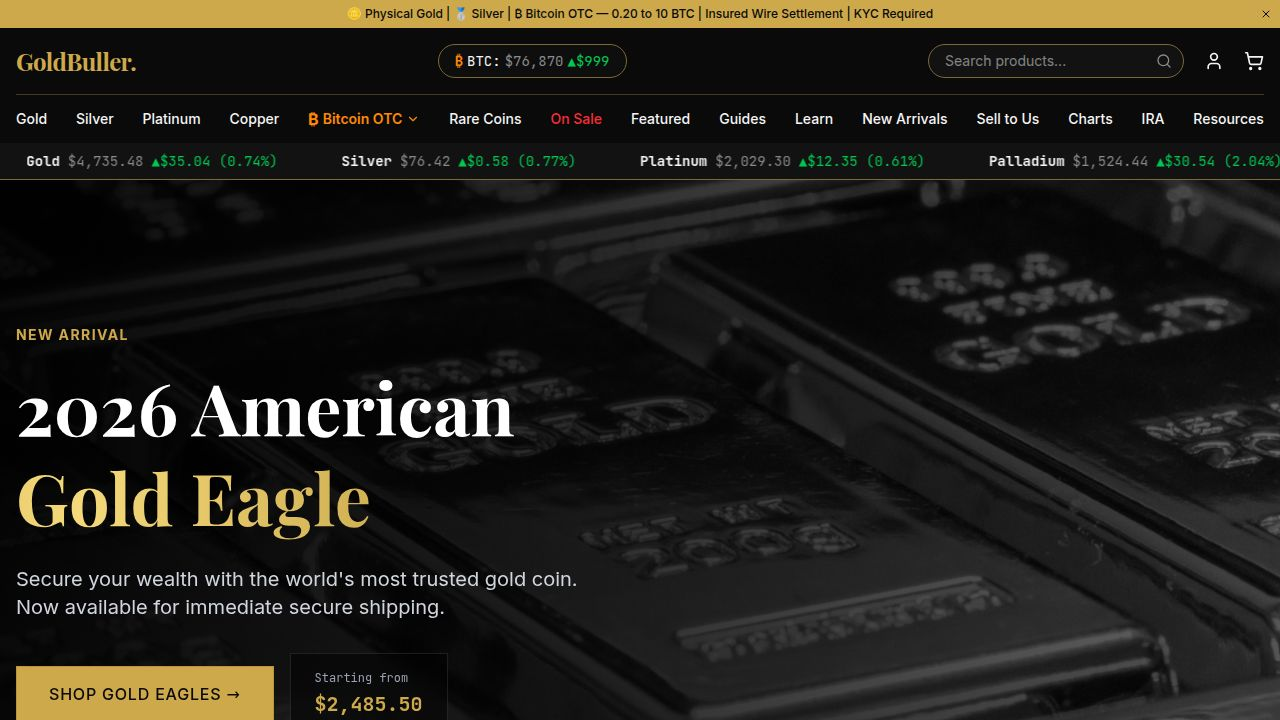
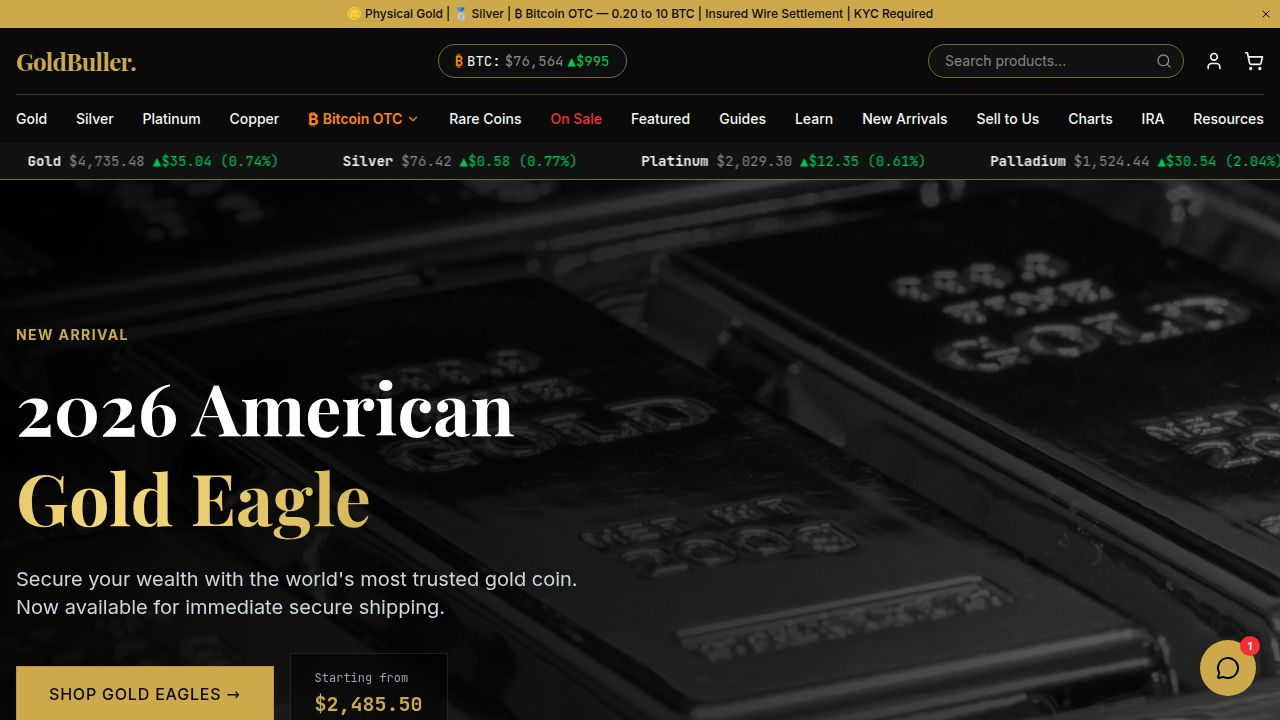
Enable two-way chat communication between website visitors and support staff
Implement a real-time chat system with webhook integration for Telegram, enabling support staff to reply to visitors directly from Telegram, with messages appearing instantly in the website's chat widget.

Replit-Commit-Author: Agent
Replit-Commit-Session-Id: c44f66ad-3d1c-43c3-a762-0c1ed141a7b3
Replit-Commit-Checkpoint-Type: full_checkpoint
Replit-Commit-Event-Id: 3b26f23b-ec00-44c7-afaf-f5d822beadcd
Replit-Commit-Screenshot-Url: https://storage.googleapis.com/screenshot-production-us-central1/ed52fd73-f097-4825-986e-e8a3069f0a9b/c44f66ad-3d1c-43c3-a762-0c1ed141a7b3/kB2XRSG
Replit-Helium-Checkpoint-Created: true

diff --git a/artifacts/puregold/src/components/ChatWidget.tsx b/artifacts/puregold/src/components/ChatWidget.tsx
@@ -1,74 +1,63 @@
-import { useState, useEffect, useRef } from "react";
+import { useState, useEffect, useRef, useCallback } from "react";
 import { useLocation } from "wouter";
 import { useAuth } from "@/contexts/AuthContext";
-import { MessageCircle, X, Send, CheckCircle, ChevronDown } from "lucide-react";
+import { MessageCircle, X, Send, ChevronDown } from "lucide-react";
 
 interface Message {
   id: string;
-  from: "user" | "bot";
+  from: "user" | "support";
   text: string;
 }
 
-const BOT_INTROS: Message[] = [
-  {
-    id: "intro",
-    from: "bot",
-    text: "👋 Hi! Welcome to GoldBuller. How can we help you today? Ask about pricing, shipping, KYC, Bitcoin OTC, or anything else.",
-  },
-];
-
-const AUTO_REPLIES: { pattern: RegExp; reply: string }[] = [
-  {
-    pattern: /price|spot|gold|silver|platinum|oz/i,
-    reply: "Our prices update in real-time from live spot markets. Check the ticker at the top of any page, or visit our Charts section for historical data. A team member will follow up shortly!",
-  },
-  {
-    pattern: /ship|deliver|how long|when|arrival/i,
-    reply: "We offer insured shipping on all orders. Standard delivery is 3–5 business days, expedited is 1–2 days. A specialist will confirm your order details soon.",
-  },
-  {
-    pattern: /kyc|verify|verification|identity|id/i,
-    reply: "KYC verification takes ~5 minutes online and is approved within 1–2 business days. Head to Account → KYC Status to get started. We'll be in touch shortly!",
-  },
-  {
-    pattern: /bitcoin|btc|otc|crypto/i,
-    reply: "Our Bitcoin OTC desk handles 0.20–10 BTC purchases via insured bank wire. All buyers must complete KYC first. A specialist will reach out to walk you through the process.",
-  },
-  {
-    pattern: /wire|bank|payment|pay/i,
-    reply: "We accept bank wire transfers. Once your order is placed, our team sends personalized wire instructions with a 4-hour settlement window. We'll follow up with full details.",
-  },
-];
-
-function getBotReply(message: string): string {
-  const match = AUTO_REPLIES.find((r) => r.pattern.test(message));
-  return (
-    match?.reply ||
-    "Thanks for your message! Our team has been notified and will get back to you shortly. We typically respond within a few hours during business hours (Mon–Fri, 9am–6pm ET)."
-  );
+// ─── Session ID ──────────────────────────────────────────────────────────────
+// 8-char uppercase hex, persisted for the browser session
+function getOrCreateSessionId(): string {
+  const KEY = "gb_chat_sid";
+  const existing = sessionStorage.getItem(KEY);
+  if (existing) return existing;
+  const id = Array.from(crypto.getRandomValues(new Uint8Array(4)))
+    .map((b) => b.toString(16).padStart(2, "0"))
+    .join("")
+    .toUpperCase();
+  sessionStorage.setItem(KEY, id);
+  return id;
 }
+
+const SESSION_ID = getOrCreateSessionId();
+
+const INTRO: Message = {
+  id: "intro",
+  from: "support",
+  text: "👋 Hi! Welcome to GoldBuller. How can we help you today? Ask about pricing, shipping, KYC, Bitcoin OTC, or anything else.",
+};
 
 export function ChatWidget() {
   const [open, setOpen] = useState(false);
-  const [messages, setMessages] = useState<Message[]>(BOT_INTROS);
+  const [messages, setMessages] = useState<Message[]>([INTRO]);
   const [input, setInput] = useState("");
   const [name, setName] = useState("");
   const [sending, setSending] = useState(false);
-  const [sent, setSent] = useState(false);
   const [error, setError] = useState("");
   const [unread, setUnread] = useState(1);
   const [showNamePrompt, setShowNamePrompt] = useState(true);
+  const [hasSentMessage, setHasSentMessage] = useState(false);
+  const [lastPollTs, setLastPollTs] = useState(Date.now());
+
   const messagesEndRef = useRef<HTMLDivElement>(null);
   const inputRef = useRef<HTMLInputElement>(null);
+  const openRef = useRef(open);
+  openRef.current = open;
+
   const [location] = useLocation();
   const { user } = useAuth();
 
+  // Auto-fill name if logged in
   useEffect(() => {
     if (user?.name && showNamePrompt) {
       setName(user.name);
       setShowNamePrompt(false);
     }
-  }, [user]);
+  }, [user, showNamePrompt]);
 
   useEffect(() => {
     if (open) {
@@ -81,10 +70,39 @@ export function ChatWidget() {
     messagesEndRef.current?.scrollIntoView({ behavior: "smooth" });
   }, [messages]);
 
-  const addMessage = (msg: Omit<Message, "id">) => {
+  const addMessage = useCallback((msg: Omit<Message, "id">) => {
     setMessages((prev) => [...prev, { ...msg, id: crypto.randomUUID() }]);
-  };
+  }, []);
 
+  // ─── Poll for replies from Telegram ───────────────────────────────────────
+  useEffect(() => {
+    if (!hasSentMessage) return;
+
+    const poll = async () => {
+      try {
+        const res = await fetch(
+          `/api/chat/replies?sessionId=${SESSION_ID}&after=${lastPollTs}`
+        );
+        const data = await res.json();
+        if (data.success && data.replies?.length) {
+          for (const r of data.replies) {
+            addMessage({ from: "support", text: r.text });
+            if (!openRef.current) {
+              setUnread((n) => n + 1);
+            }
+          }
+          setLastPollTs(data.replies[data.replies.length - 1].ts);
+        }
+      } catch {
+        // silently ignore network errors
+      }
+    };
+
+    const interval = setInterval(poll, 3000);
+    return () => clearInterval(interval);
+  }, [hasSentMessage, lastPollTs, addMessage]);
+
+  // ─── Send message ──────────────────────────────────────────────────────────
   const handleSend = async () => {
     const trimmed = input.trim();
     if (!trimmed || sending) return;
@@ -103,13 +121,23 @@ export function ChatWidget() {
           name: name.trim() || (user?.name ?? ""),
           email: user?.email ?? "",
           page: location,
+          sessionId: SESSION_ID,
         }),
       });
       const data = await res.json();
+
       if (data.success) {
-        const reply = getBotReply(trimmed);
-        setTimeout(() => addMessage({ from: "bot", text: reply }), 800);
-        setSent(true);
+        if (!hasSentMessage) {
+          // Show "we'll reply shortly" only on first message
+          setTimeout(() => {
+            addMessage({
+              from: "support",
+              text: "✅ Message received! Our team has been notified and will reply here shortly.",
+            });
+          }, 600);
+          setHasSentMessage(true);
+          setLastPollTs(Date.now());
+        }
       } else {
         setError("Couldn't send. Please email support@goldbuller.com directly.");
       }
@@ -151,8 +179,10 @@ export function ChatWidget() {
 
       {/* Chat panel */}
       {open && (
-        <div className="fixed bottom-24 right-6 z-50 w-[360px] max-w-[calc(100vw-24px)] bg-card border border-border rounded-2xl shadow-2xl flex flex-col overflow-hidden"
-          style={{ maxHeight: "520px" }}>
+        <div
+          className="fixed bottom-24 right-6 z-50 w-[360px] max-w-[calc(100vw-24px)] bg-card border border-border rounded-2xl shadow-2xl flex flex-col overflow-hidden"
+          style={{ maxHeight: "520px" }}
+        >
           {/* Header */}
           <div className="bg-primary px-4 py-3 flex items-center justify-between shrink-0">
             <div className="flex items-center gap-2.5">
@@ -163,16 +193,19 @@ export function ChatWidget() {
                 <p className="text-black font-bold text-sm leading-tight">GoldBuller Support</p>
                 <p className="text-black/70 text-xs flex items-center gap-1">
                   <span className="h-1.5 w-1.5 rounded-full bg-green-800 inline-block" />
-                  Typically replies in a few hours
+                  {hasSentMessage ? "Waiting for reply…" : "We reply in Telegram"}
                 </p>
               </div>
             </div>
-            <button onClick={() => setOpen(false)} className="text-black/60 hover:text-black transition-colors">
+            <button
+              onClick={() => setOpen(false)}
+              className="text-black/60 hover:text-black transition-colors"
+            >
               <X className="h-5 w-5" />
             </button>
           </div>
 
-          {/* Name prompt (if not logged in and haven't set name) */}
+          {/* Name prompt */}
           {showNamePrompt && !user && (
             <div className="px-4 py-3 bg-secondary/30 border-b border-border shrink-0">
               <label className="text-xs text-muted-foreground font-medium block mb-1.5">
@@ -197,7 +230,7 @@ export function ChatWidget() {
                 key={msg.id}
                 className={`flex ${msg.from === "user" ? "justify-end" : "justify-start"}`}
               >
-                {msg.from === "bot" && (
+                {msg.from === "support" && (
                   <div className="h-7 w-7 rounded-full bg-primary/20 border border-primary/30 flex items-center justify-center mr-2 mt-0.5 shrink-0">
                     <span className="text-primary font-bold text-xs font-serif">G</span>
                   </div>
@@ -214,6 +247,7 @@ export function ChatWidget() {
               </div>
             ))}
 
+            {/* Typing indicator while sending */}
             {sending && (
               <div className="flex justify-start">
                 <div className="h-7 w-7 rounded-full bg-primary/20 border border-primary/30 flex items-center justify-center mr-2 shrink-0">
@@ -237,7 +271,7 @@ export function ChatWidget() {
             <div ref={messagesEndRef} />
           </div>
 
-          {/* Input area */}
+          {/* Input */}
           <div className="px-3 py-3 border-t border-border shrink-0 bg-card">
             <div className="flex items-center gap-2">
               <input
@@ -259,7 +293,10 @@ export function ChatWidget() {
               </button>
             </div>
             <p className="text-[10px] text-muted-foreground text-center mt-2">
-              Powered by GoldBuller Support · <a href="mailto:support@goldbuller.com" className="hover:text-primary transition-colors">support@goldbuller.com</a>
+              GoldBuller Support ·{" "}
+              <a href="mailto:support@goldbuller.com" className="hover:text-primary transition-colors">
+                support@goldbuller.com
+              </a>
             </p>
           </div>
         </div>

diff --git a/artifacts/api-server/src/routes/chat.ts b/artifacts/api-server/src/routes/chat.ts
@@ -2,14 +2,93 @@ import { Router } from "express";
 
 const router = Router();
 
-// POST /api/chat/send
+// ─── In-memory reply store ───────────────────────────────────────────────────
+// sessionId (8-char uppercase) → [{text, ts}]
+const replyStore = new Map<string, Array<{ text: string; ts: number }>>();
+
+// Prune sessions older than 24 hours every 30 minutes
+setInterval(() => {
+  const cutoff = Date.now() - 24 * 60 * 60 * 1000;
+  for (const [id, replies] of replyStore.entries()) {
+    if (!replies.length || replies[replies.length - 1].ts < cutoff) {
+      replyStore.delete(id);
+    }
+  }
+}, 30 * 60 * 1000);
+
+// ─── Webhook registration ────────────────────────────────────────────────────
+function getSiteUrl(): string {
+  const domains = process.env["REPLIT_DOMAINS"] || "";
+  const list = domains.split(",").map((d) => d.trim()).filter(Boolean);
+  const custom = list.find((d) => !d.endsWith(".replit.app"));
+  return `https://${custom || list[0] || "localhost"}`;
+}
+
+async function registerWebhook(token: string) {
+  const url = `${getSiteUrl()}/api/chat/webhook`;
+  const r = await fetch(`https://api.telegram.org/bot${token}/setWebhook`, {
+    method: "POST",
+    headers: { "Content-Type": "application/json" },
+    body: JSON.stringify({ url, drop_pending_updates: true }),
+  });
+  const d = (await r.json()) as { ok: boolean; description?: string };
+  if (d.ok) {
+    console.log(`[chat] Telegram webhook registered → ${url}`);
+  } else {
+    console.error("[chat] Webhook registration failed:", d.description);
+  }
+}
+
+// Register on startup (non-blocking)
+const _token = process.env["TELEGRAM_BOT_TOKEN"];
+if (_token) registerWebhook(_token).catch(() => {});
+
+// ─── POST /api/chat/webhook ──────────────────────────────────────────────────
+// Receives messages admin sends to the bot in Telegram
+// Admin format:  /r SESSIONID  reply text here
+router.post("/chat/webhook", (req, res) => {
+  // Acknowledge immediately
+  res.json({ ok: true });
+
+  const msg = req.body?.message;
+  if (!msg?.text) return;
+
+  const text: string = msg.text.trim();
+  // Match: /r <8-char session id> <reply text>
+  const m = text.match(/^\/r\s+([A-Z0-9]{8})\s+([\s\S]+)$/i);
+  if (!m) return;
+
+  const sessionId = m[1].toUpperCase();
+  const replyText = m[2].trim();
+
+  if (!replyStore.has(sessionId)) replyStore.set(sessionId, []);
+  replyStore.get(sessionId)!.push({ text: replyText, ts: Date.now() });
+});
+
+// ─── GET /api/chat/replies ───────────────────────────────────────────────────
+// Polled by frontend every 3s. Returns replies newer than ?after= timestamp.
+router.get("/chat/replies", (req, res) => {
+  const sessionId = ((req.query["sessionId"] as string) || "").toUpperCase();
+  const after = Number(req.query["after"] || 0);
+
+  if (!sessionId) {
+    res.status(400).json({ success: false, error: "sessionId required" });
+    return;
+  }
+
+  const replies = (replyStore.get(sessionId) || []).filter((r) => r.ts > after);
+  res.json({ success: true, replies });
+});
+
+// ─── POST /api/chat/send ─────────────────────────────────────────────────────
 router.post("/chat/send", async (req, res) => {
   try {
-    const { message, name, email, page } = req.body as {
+    const { message, name, email, page, sessionId } = req.body as {
       message?: string;
       name?: string;
       email?: string;
       page?: string;
+      sessionId?: string;
     };
 
     if (!message?.trim()) {
@@ -26,6 +105,10 @@ router.post("/chat/send", async (req, res) => {
       return;
     }
 
+    const sid = (sessionId || "").toUpperCase();
+    // Ensure session exists in store so replies can be posted
+    if (sid && !replyStore.has(sid)) replyStore.set(sid, []);
+
     const now = new Date().toLocaleString("en-US", {
       timeZone: "America/New_York",
       month: "short",
@@ -38,17 +121,17 @@ router.post("/chat/send", async (req, res) => {
       ? `👤 *${name.trim()}*${email?.trim() ? ` — ${email.trim()}` : ""}`
       : `👤 Anonymous visitor${email?.trim() ? ` — ${email.trim()}` : ""}`;
 
-    const text = [
+    const lines = [
       `💬 *New GoldBuller Chat Message*`,
       ``,
       visitorLine,
-      page ? `📍 Page: ${page}` : null,
+      page ? `📍 Page: \`${page}\`` : null,
       `🕐 ${now} ET`,
       ``,
       `💬 "${message.trim()}"`,
-    ]
-      .filter((l) => l !== null)
-      .join("\n");
+      ``,
+      sid ? `↩ To reply, send:\n\`/r ${sid} your reply here\`` : null,
+    ].filter((l) => l !== null);
 
     const tgRes = await fetch(
       `https://api.telegram.org/bot${botToken}/sendMessage`,
@@ -57,7 +140,7 @@ router.post("/chat/send", async (req, res) => {
         headers: { "Content-Type": "application/json" },
         body: JSON.stringify({
           chat_id: chatId,
-          text,
+          text: lines.join("\n"),
           parse_mode: "Markdown",
         }),
       }
